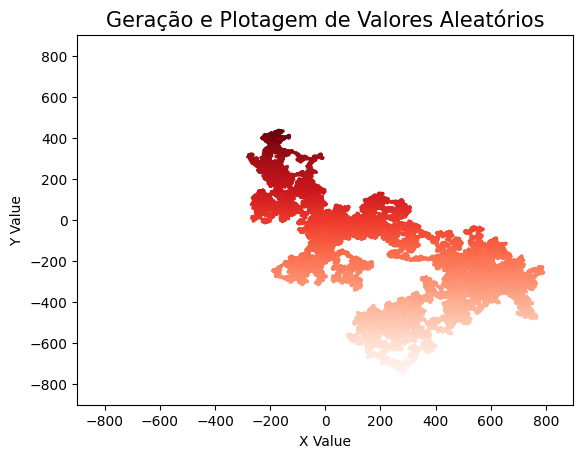
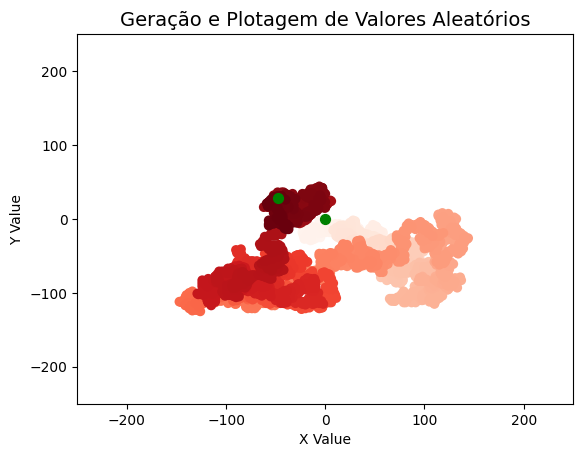
Estilização da plotagem e limpeza dos eixos

diff --git a/random_walk/rw_visual.py b/random_walk/rw_visual.py
@@ -1,24 +1,21 @@
 import matplotlib.pyplot as plt
-
 from random_walk import RandomWalk
 
 while True:
     #Cria um passeio aleatório e plota os pontos
-    rw = RandomWalk()
+    rw = RandomWalk(100000)
     rw.fill_walk()
 
-    plt.scatter(rw.x_value, rw.y_value, edgecolors='None', c=rw.y_value, cmap=plt.cm.Reds, s=5)
+    num_points = list(range(rw.num_points))
+    plt.scatter(rw.x_value, rw.y_value, edgecolors='None', c=num_points, cmap=plt.cm.Blues, s=1)
 
-    #Define o titulo e nome dos eixos
-    plt.title('Geração e Plotagem de Valores Aleatórios', fontsize=15)
-    plt.xlabel('X Value', fontsize=10)
-    plt.ylabel('Y Value', fontsize=10)
+    #Enfatiza o primeiro e ultimo ponto do percurso
+    plt.scatter(0, 0, c='red', edgecolors='None', s=50)
+    plt.scatter(rw.x_value[-1], rw.y_value[-1], c='red', edgecolors='None', s=50)
 
-    #Personaliza os dados dos eixos
-    plt.tick_params(axis='both', labelsize=10)
-
-    #Define os limites mínimo e máximo dos eixos
-    plt.axis([-900, 900, -900, 900])
+    #Remove os eixosy
+    plt.gca().get_xaxis().set_visible(False)
+    plt.gca().get_yaxis().set_visible(False)
 
     # plt.savefig('random_walk.png', bbox_inches='tight')
     plt.show()

diff --git a/random_walk/random_walk.py b/random_walk/random_walk.py
@@ -2,7 +2,7 @@ from random import choice
 
 class RandomWalk():
     """Uma classe que gera passeios aleatórios"""
-    def __init__(self, num_points=100000):
+    def __init__(self, num_points=5000):
         """Método que inicializa os atributos do passeio"""
         self.num_points = num_points
         """Todos os passeios começam em (0, 0)"""
